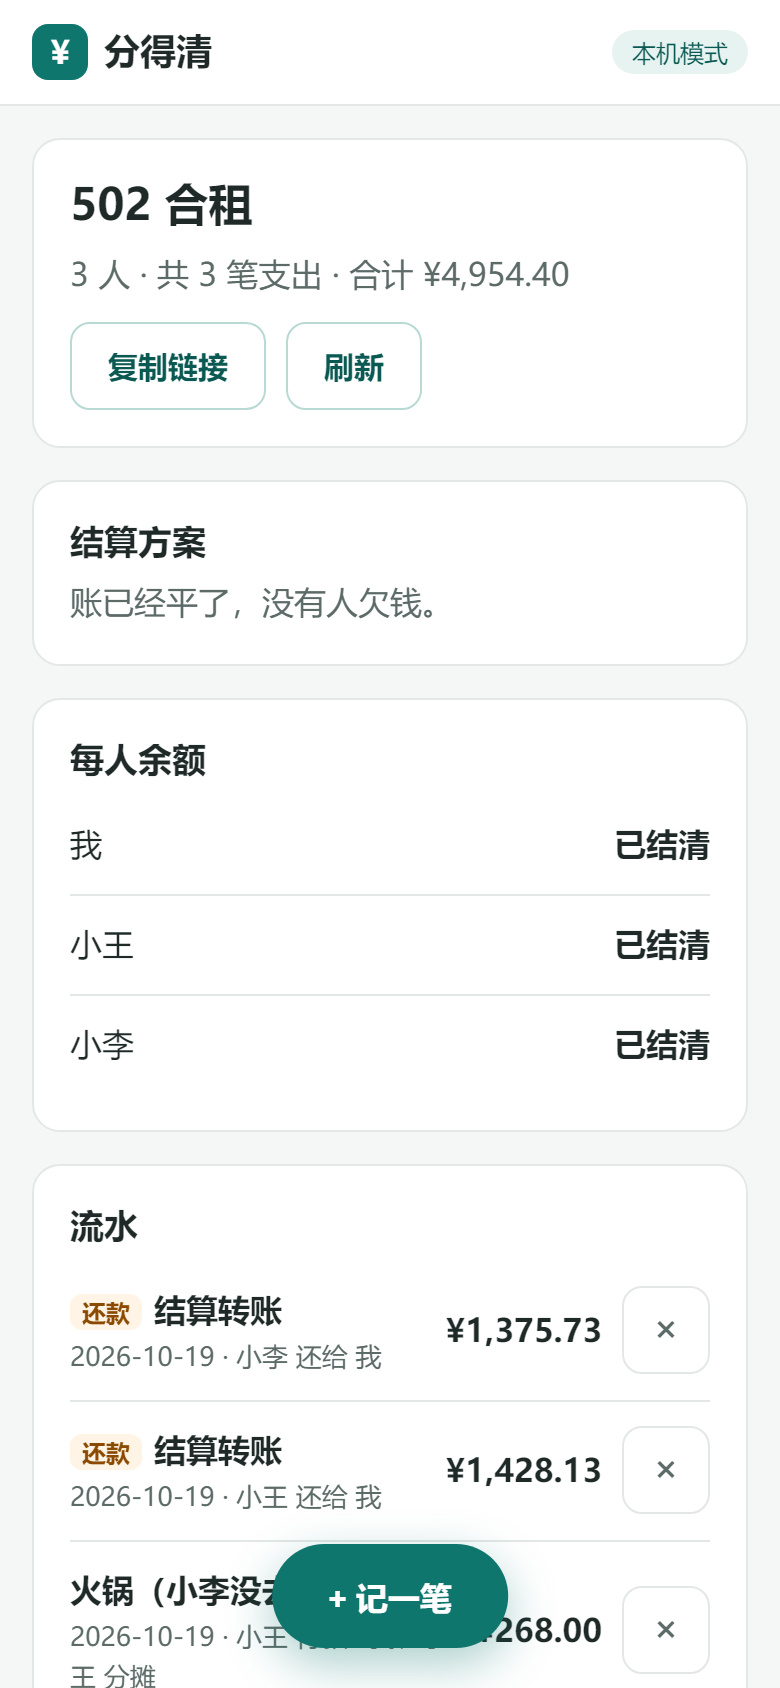
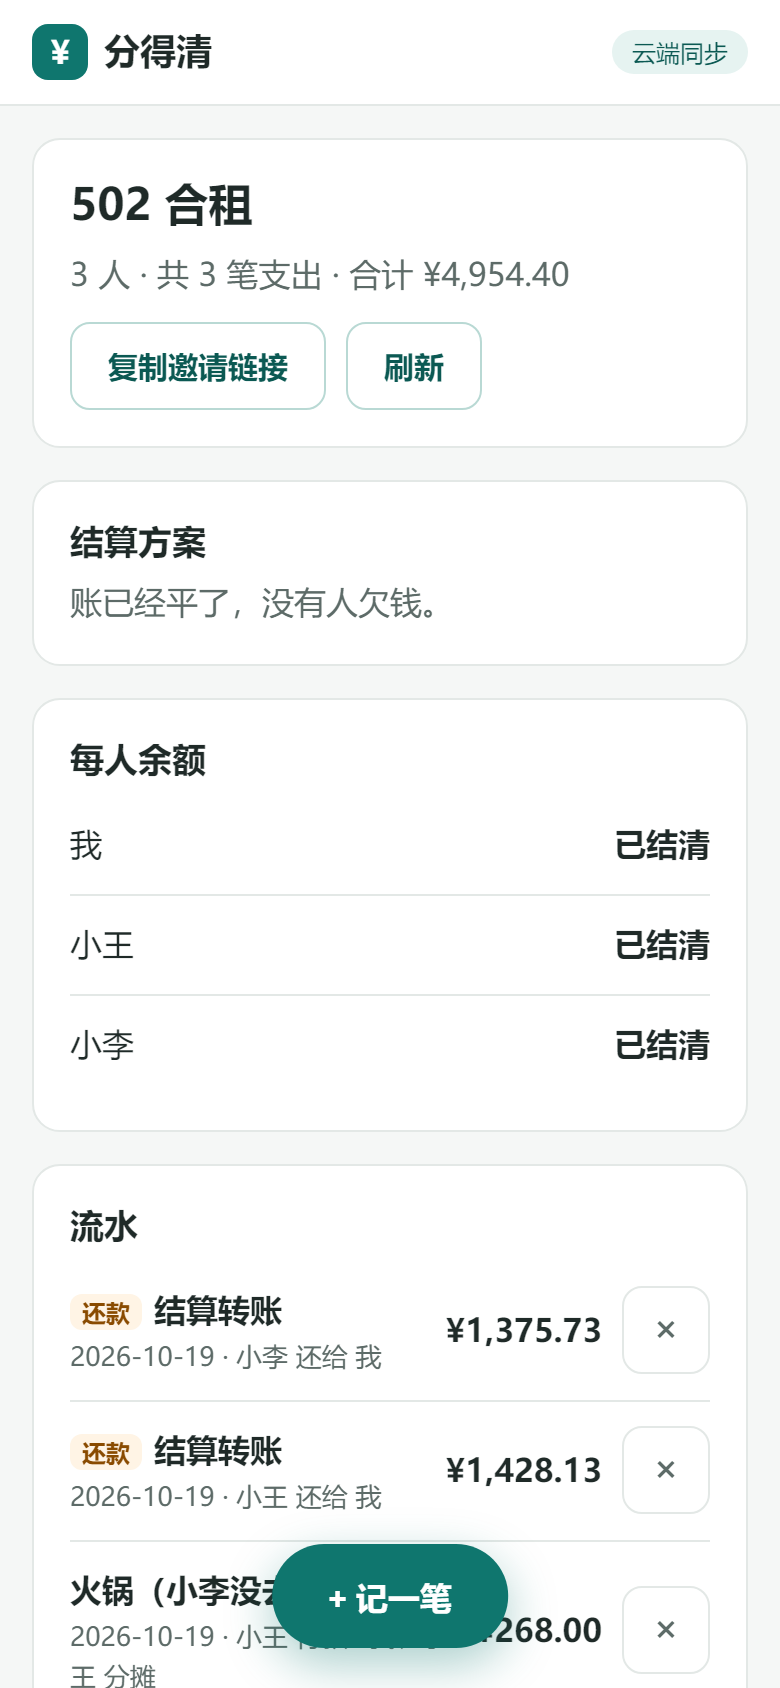
接入 Supabase 云端同步；操作后静默刷新；e2e 增加跨设备同步验证

Changed region(s): [[0.4, 0.1848, 0.5846, 0.2464], [0.2154, 0.1848, 0.3692, 0.2464], [0.8, 0.0, 0.9231, 0.0616]]

diff --git a/site/js/ledger.js b/site/js/ledger.js
@@ -4,15 +4,20 @@ import { h, $, toast, errMsg, today, withBusy } from './ui.js';
 
 let state = null; // { token, name, members, entries }
 
-export async function renderLedger(root, token) {
-  root.replaceChildren(h('section', { class: 'card empty' }, h('p', {}, '加载中…')));
+// quiet=true：操作后刷新时保留当前内容，避免云端请求期间页面闪成"加载中"
+export async function renderLedger(root, token, { quiet = false } = {}) {
+  if (!quiet) root.replaceChildren(h('section', { class: 'card empty' }, h('p', {}, '加载中…')));
+  else root.setAttribute('aria-busy', 'true');
   try {
     const data = await store.getLedger(token);
     state = { token, ...data };
     rememberLedger(token, data.name);
     paint(root);
+    root.removeAttribute('aria-busy');
   } catch (e) {
     console.error('[load]', e);
+    root.removeAttribute('aria-busy');
+    if (quiet) { toast(errMsg(e), true); return; }
     root.replaceChildren(h('section', { class: 'card empty' },
       h('h2', {}, '打不开这个账本'), h('p', {}, errMsg(e)),
       h('div', { class: 'actions' },
@@ -98,7 +103,7 @@ async function markRepaid(root, btn, t) {
         payerId: t.from, participantIds: [t.to], spentOn: today(),
       });
       toast('已记录还款');
-      await renderLedger(root, state.token);
+      await renderLedger(root, state.token, { quiet: true });
     } catch (e) { toast(errMsg(e), true); }
   });
 }
@@ -109,7 +114,7 @@ async function removeEntry(root, btn, e) {
     try {
       await store.deleteEntry(state.token, e.id);
       toast('已删除');
-      await renderLedger(root, state.token);
+      await renderLedger(root, state.token, { quiet: true });
     } catch (err) { toast(errMsg(err), true); }
   });
 }
@@ -159,7 +164,7 @@ form.addEventListener('submit', (ev) => {
       await store.addEntry(state.token, { kind: 'expense', title, amount, payerId, participantIds, spentOn });
       dialog.close();
       toast(`已记录 ${formatCents(amount)}`);
-      await renderLedger(currentRoot, state.token);
+      await renderLedger(currentRoot, state.token, { quiet: true });
     } catch (e) { errEl.textContent = errMsg(e); }
   });
 });

diff --git a/site/js/config.js b/site/js/config.js
@@ -1,6 +1,6 @@
 // 公开配置。anon key 本身是公开的，真正的访问控制由数据库 RLS + RPC 函数里的 token 校验负责。
 // 两项留空时，应用自动使用浏览器本地存储（仅本机可见）。
 export const CONFIG = {
-  supabaseUrl: '',
-  supabaseAnonKey: '',
+  supabaseUrl: 'https://hwbalidtqdjsnshygqez.supabase.co',
+  supabaseAnonKey: 'eyJhbGciOiJIUzI1NiIsInR5cCI6IkpXVCJ9.eyJpc3MiOiJzdXBhYmFzZSIsInJlZiI6Imh3YmFsaWR0cWRqc25zaHlncWV6Iiwicm9sZSI6ImFub24iLCJpYXQiOjE3OTIzNDIxOTQsImV4cCI6MjEwNzkxODE5NH0.LcAFfbheUJoIolh7TtqpEImQzO9hqNbCU1KUMabXWfg',
 };

diff --git a/毕业项目提交.md b/毕业项目提交.md
@@ -44,7 +44,7 @@
 | P0 | 删除记录（需二次确认）、数据持久化、异常提示 | ✅ |
 | P0 | 手机端适配 | ✅ |
 | P1 | 最近打开的账本列表 | ✅ |
-| P1 | 云端多人同步（Supabase，代码和数据库脚本已完成） | ⏳ 待接入项目密钥 |
+| P1 | 云端多人同步（Supabase，东京区域） | ✅ |
 | P1 | 按比例或按金额分摊 | 后续迭代 |
 | P1 | 编辑记录、成员增删 | 后续迭代 |
 | P2 | 导出 Excel、分类统计图表 | 后续迭代 |
@@ -54,7 +54,7 @@
 
 ## 5. 产品截图
 
-截图位于 `screenshots/`，在线上环境按 390×844 手机尺寸截取。
+截图位于 `screenshots/`，在线上环境（云端同步模式）按 390×844 手机尺寸截取。
 
 1. `1-home.png`：首页，新建账本
 2. `2-ledger.png`：账本页，包括结算方案、每人余额和流水
@@ -87,7 +87,8 @@
 
 - 结算算法单元测试 9 项
 - 数据库测试 6 项，在内存 Postgres（PGlite）里跑真实的 schema.sql
-- 线上端到端测试 14 项，覆盖核心流程、数据保存、异常提示、手机端横向溢出和 XSS
+- 线上端到端测试 16 项，覆盖核心流程、数据保存、跨设备同步、异常提示、手机端横向溢出和 XSS
+- 线上数据库用匿名密钥实测：直接读表、调用内部函数均被拒绝（42501），超大数组请求被拦截
 
 全部通过。
 
@@ -96,4 +97,4 @@
 - 网站：https://fendeqing-aa.netlify.app
 - 代码仓库：https://github.com/LIVE-chen/fendeqing
 - 任务看板（P0/P1/P2）：https://github.com/users/LIVE-chen/projects/2
-- 当前是"本机模式"，数据保存在浏览器里，能完整体验所有功能，但不能跨设备共享。接入 Supabase 后会切换为"云端同步"，其他人打开同一个链接就能一起记账。
+- 已接入 Supabase 云端：页面右上角显示"云端同步"，把账本链接发给别人，对方在任何设备上打开都能查看和记账。
